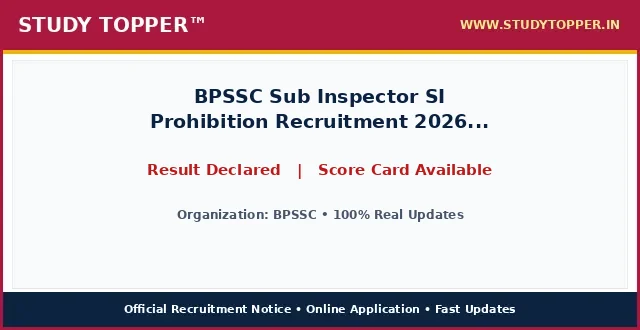
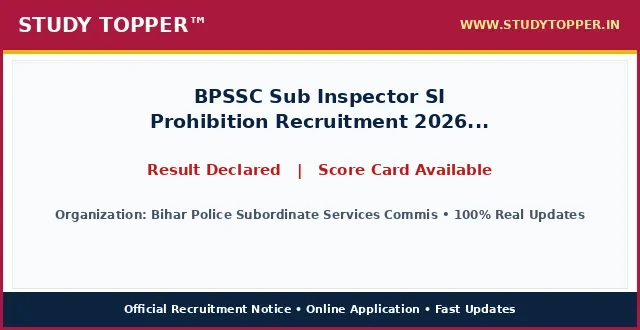
chore(lifecycle): daily auto-sort vacancies and update active dates

Changed region(s): [[0.0625, 0.6364, 0.9375, 0.6667]]

diff --git a/pages/bihar-police-bpssc-si-prohibition-result-2026.html b/pages/bihar-police-bpssc-si-prohibition-result-2026.html
@@ -987,8 +987,8 @@ ul.wp-block-latest-posts a:hover {
 <main class="site-main" id="main">
 <div class="gb-container gb-container-b39c368c">
 <h1 class="gb-headline gb-headline-e52a0102 gb-headline-text" style="font-size: 22px; font-weight: 700; color: #0000cd; text-align: left; margin: 8px 0 4px 0; line-height: 1.3; width: 100%; font-family: '-apple-system, BlinkMacSystemFont, 'Segoe UI', Roboto, 'Helvetica Neue', Arial, sans-serif', Times, serif, Hind, sans-serif;">BPSSC Sub Inspector SI Prohibition Recruitment 2026 Result for 78 Post</h1>
-<div class="gb-container gb-container-659bd175"><p style="color: #cd0808; font-weight: 700; font-size: 15px; margin: 2px 0 7px 0; text-align: left; font-family: '-apple-system, BlinkMacSystemFont, 'Segoe UI', Roboto, 'Helvetica Neue', Arial, sans-serif', Times, serif, Hind, sans-serif;">Post Date: August 22, 2026 12:34 PM</p></div>
-<p class="gb-headline gb-headline-550ae316 short_Details gb-headline-text" style="width: 100%; max-width: 100%; font-size: 16.8px; line-height: 1.55; color: #000000; text-align: justify; text-justify: inter-word; margin: 8px 0 14px 0; display: block; font-family: '-apple-system, BlinkMacSystemFont, 'Segoe UI', Roboto, 'Helvetica Neue', Arial, sans-serif', Times, serif, Hind, sans-serif;"><strong style="color: #0000cd;">BPSSC</strong> has officially announced and declared the <strong style="color: #cd0808;">BPSSC Sub Inspector SI Prohibition Recruitment 2026 Result for 78 Post</strong> on its official examination portal. Candidates who participated in the examination can now verify their subject-wise marks, scorecards, and qualifying status. The online scorecard and merit cut-off lists are accessible through candidate login credentials. All qualified aspirants are advised to review the comprehensive scorecard breakdown, download their rank certificate, and verify the subsequent document verification schedule outlined in the official notification.</p>
+<div class="gb-container gb-container-659bd175"><p style="color: #cd0808; font-weight: 700; font-size: 15px; margin: 2px 0 7px 0; text-align: left; font-family: '-apple-system, BlinkMacSystemFont, 'Segoe UI', Roboto, 'Helvetica Neue', Arial, sans-serif', Times, serif, Hind, sans-serif;">Post Date: August 22, 2026 01:11 PM</p></div>
+<p class="gb-headline gb-headline-550ae316 short_Details gb-headline-text" style="width: 100%; max-width: 100%; font-size: 16.8px; line-height: 1.55; color: #000000; text-align: justify; text-justify: inter-word; margin: 8px 0 14px 0; display: block; font-family: '-apple-system, BlinkMacSystemFont, 'Segoe UI', Roboto, 'Helvetica Neue', Arial, sans-serif', Times, serif, Hind, sans-serif;"><strong style="color: #0000cd;">Bihar Police Subordinate Services Commission (BPSSC)</strong> has officially announced and declared the <strong style="color: #cd0808;">BPSSC Sub Inspector SI Prohibition Recruitment 2026 Result for 78 Post</strong> on its official examination portal. Candidates who participated in the examination can now verify their subject-wise marks, scorecards, and qualifying status. The online scorecard and merit cut-off lists are accessible through candidate login credentials. All qualified aspirants are advised to review the comprehensive scorecard breakdown, download their rank certificate, and verify the subsequent document verification schedule outlined in the official notification.</p>
 <div class="gb-container gb-container-9849916c"><div class="social-buttons-compact" style="display: flex; justify-content: flex-start; align-items: center; gap: 10px; margin: 10px 0 16px 0; width: 100%;"><a class="social-btn-compact wa" href="https://whatsapp.com/channel/0029Va9xyz" rel="noopener" style="background-color: #00d084; color: #ffffff; padding: 10px 18px; border-radius: 4px; text-decoration: none; font-weight: bold; font-size: 15.5px; display: inline-flex; align-items: center; justify-content: center; height: auto;" target="_blank">WhatsApp</a><a class="social-btn-compact tg" href="https://t.me/studytopperofficial" rel="noopener" style="background-color: #0088cc; color: #ffffff; padding: 10px 18px; border-radius: 4px; text-decoration: none; font-weight: bold; font-size: 15.5px; display: inline-flex; align-items: center; justify-content: center; height: auto;" target="_blank">Telegram</a></div></div>
 <div class="gb-container gb-container-f58e6ca1" style="border: 2px solid #5b032f; border-radius: 4px; overflow: hidden; margin: 15px 0 20px 0; background-color: #ffffff; width: 100%; box-sizing: border-box;">
 <h2 class="gb-headline gb-headline-2ca5a791 gb-headline-text" style="font-size: 16px; font-weight: 700; text-align: center; color: #ef0303; line-height: 1.3; padding: 6px 4px; margin: 0; background: #ffffff; font-family: '-apple-system, BlinkMacSystemFont, 'Segoe UI', Roboto, 'Helvetica Neue', Arial, sans-serif', Times, serif, Hind, sans-serif;">BPSSC Sub Inspector SI Prohibition Recruitment 2026 Result for 78 Post &ndash; Latest Details &amp; Updates</h2>
